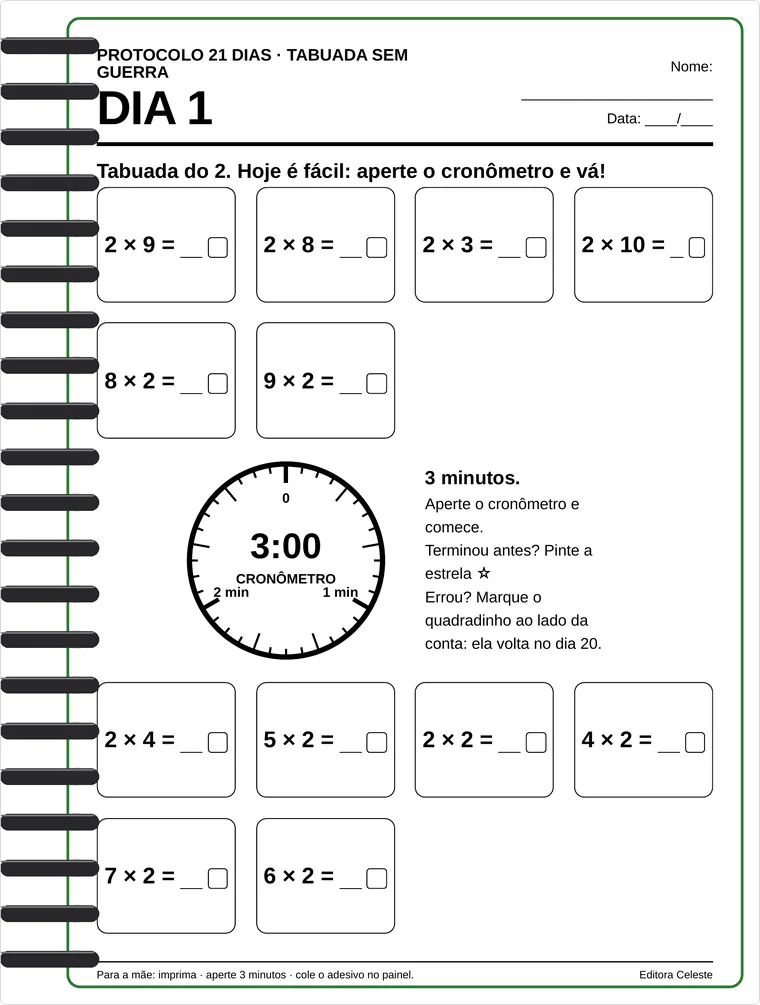
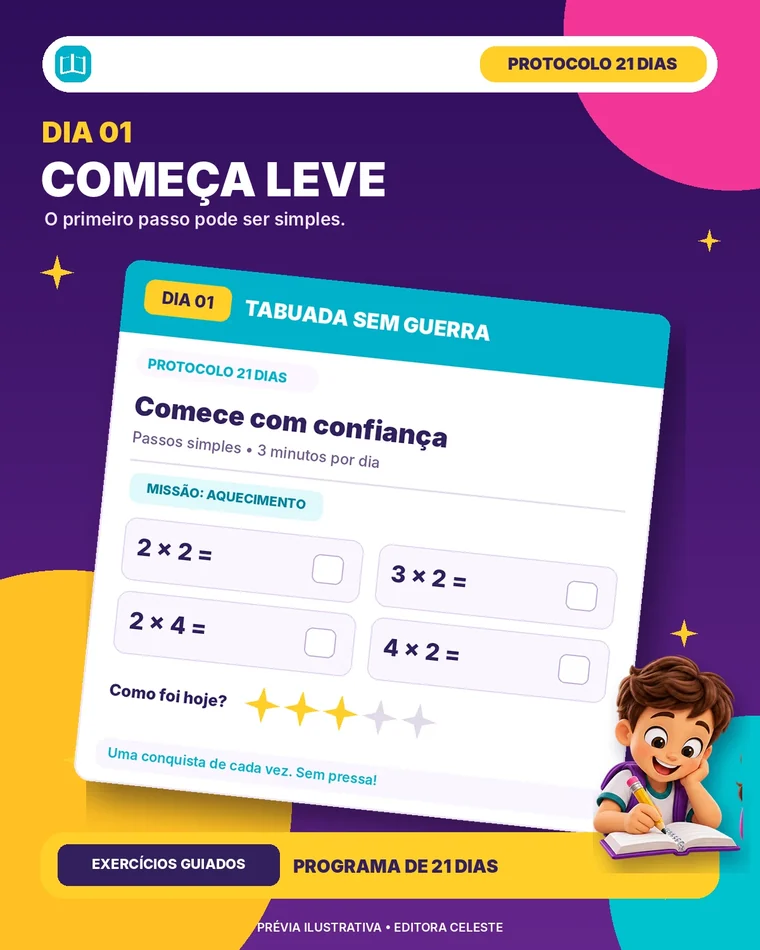
Amostras e certificado no novo padrao visual
Claude-Session: https://claude.ai/code/session_01Ast5QnxUEeTmG8u9QmdkDy

diff --git a/tabuada/index.html b/tabuada/index.html
@@ -333,8 +333,8 @@ footer .brand{font-weight:800;letter-spacing:.14em;text-transform:uppercase;font
 <div class="wrap">
   <h2>Olhe por dentro</h2>
   <div class="pair">
-    <figure><img src="img/amostra-dia1.webp" width="760" height="1103" loading="lazy" decoding="async" alt="Folha do dia 1 do protocolo, com a tabuada do 2 e o cronômetro de 3 minutos"><figcaption>Folha do dia 1</figcaption></figure>
-    <figure><img src="img/amostra-painel.webp" width="760" height="1103" loading="lazy" decoding="async" alt="Painel dos 21 dias para colar na geladeira, com um espaço de adesivo para cada dia"><figcaption>Painel de adesivos da geladeira</figcaption></figure>
+    <figure><img src="img/amostra-dia1.webp" width="760" height="950" loading="lazy" decoding="async" alt="Folha do dia 1 do protocolo, com a tabuada do 2 e o cronômetro de 3 minutos"><figcaption>Folha do dia 1</figcaption></figure>
+    <figure><img src="img/amostra-painel.webp" width="760" height="950" loading="lazy" decoding="async" alt="Painel dos 21 dias para colar na geladeira, com um espaço de adesivo para cada dia"><figcaption>Painel de adesivos da geladeira</figcaption></figure>
   </div>
   <p class="cap"><span>isto é o que você imprime amanhã</span></p>
 </div>
